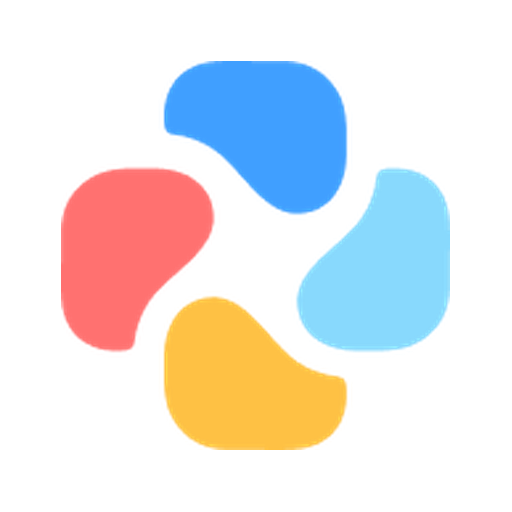
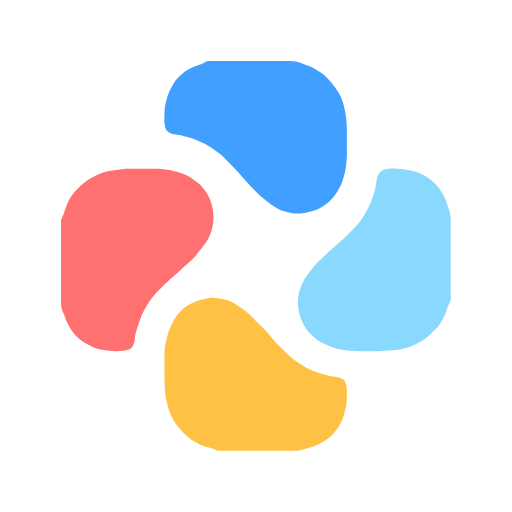
Use exact brand mark in hero illustration
Trace the four logo shapes from the brand PNG into vector paths
(assets/mark.svg) and use them in the hero, with a gentle drift-apart
animation. Regenerate favicons and app icons from the vector so they
are sharp.

Claude-Session: https://claude.ai/code/session_01AdUAFWiXucpwQGPFqsMZWu

diff --git a/index.html b/index.html
@@ -83,11 +83,11 @@
         </div>
 
         <div class="hero__art" aria-hidden="true">
-          <svg viewBox="0 0 400 400" class="blobs">
-            <g class="blob blob--1"><path fill="#409FFF" d="M150 60c20-38 90-42 112-4 20 34-2 70-26 92-24 22-58 30-82 8-22-20-20-62-4-96z"/></g>
-            <g class="blob blob--2"><path fill="#88D9FD" d="M300 160c38 4 62 50 40 88-18 32-64 50-92 30-26-18-28-56-14-84 14-26 34-37 66-34z"/></g>
-            <g class="blob blob--3"><path fill="#FEC144" d="M230 270c30 14 40 62 14 90-24 26-80 30-106 4-22-22-14-60 10-80 24-20 54-28 82-14z"/></g>
-            <g class="blob blob--4"><path fill="#FF7170" d="M62 140c30-18 76-6 90 26 14 32-2 72-34 88-32 16-76 4-86-30-10-32 0-66 30-84z"/></g>
+          <svg viewBox="-6 -6 159 159" class="blobs">
+            <path class="blob blob--1" fill="#409FFF" d="M55.50 0.00C54.56 0.19 53.86 0.79 53.00 1.12C52.14 1.46 51.20 1.68 50.34 2.04C49.47 2.40 48.63 2.81 47.82 3.31C47.01 3.80 46.22 4.38 45.48 5.02C44.75 5.65 43.99 6.36 43.39 7.11C42.78 7.87 42.32 8.70 41.85 9.52C41.39 10.34 40.94 11.17 40.59 12.04C40.24 12.91 39.99 13.82 39.75 14.73C39.51 15.65 39.25 16.55 39.12 17.52C39.00 18.48 39.02 19.50 39.00 20.51C38.98 21.51 38.89 22.58 39.03 23.53C39.18 24.49 39.34 25.54 39.88 26.23C40.41 26.91 41.37 27.33 42.25 27.62C43.13 27.92 44.20 27.82 45.13 28.01C46.07 28.20 46.96 28.48 47.87 28.75C48.77 29.02 49.67 29.29 50.55 29.62C51.42 29.96 52.27 30.35 53.12 30.75C53.97 31.15 54.82 31.53 55.64 32.01C56.45 32.50 57.23 33.08 58.01 33.63C58.79 34.19 59.60 34.70 60.34 35.34C61.09 35.99 61.78 36.78 62.49 37.49C63.21 38.21 63.94 38.92 64.64 39.64C65.35 40.37 66.03 41.10 66.71 41.83C67.38 42.57 68.02 43.31 68.68 44.06C69.34 44.80 69.98 45.54 70.66 46.28C71.33 47.02 72.02 47.74 72.72 48.47C73.42 49.19 74.13 49.95 74.87 50.62C75.60 51.29 76.37 51.90 77.13 52.50C77.89 53.11 78.66 53.71 79.45 54.25C80.24 54.79 81.03 55.33 81.87 55.74C82.71 56.16 83.59 56.48 84.49 56.75C85.40 57.02 86.31 57.25 87.28 57.38C88.24 57.50 89.29 57.56 90.27 57.50C91.24 57.44 92.18 57.22 93.11 57.02C94.04 56.81 94.97 56.61 95.84 56.28C96.72 55.95 97.55 55.50 98.36 55.01C99.17 54.53 99.99 54.01 100.72 53.38C101.46 52.74 102.19 51.97 102.79 51.21C103.40 50.45 103.89 49.63 104.38 48.82C104.86 48.00 105.31 47.18 105.68 46.32C106.05 45.46 106.33 44.56 106.59 43.66C106.85 42.75 107.07 41.83 107.24 40.88C107.41 39.94 107.54 38.98 107.62 38.00C107.71 37.02 107.73 36.01 107.75 35.01C107.77 34.00 107.75 32.98 107.75 31.97C107.75 30.95 107.75 29.94 107.75 28.93C107.75 27.91 107.77 26.89 107.75 25.88C107.73 24.88 107.71 23.87 107.62 22.90C107.54 21.92 107.40 20.96 107.25 20.01C107.10 19.06 106.93 18.12 106.70 17.20C106.47 16.28 106.22 15.37 105.87 14.50C105.53 13.63 105.09 12.79 104.62 11.97C104.16 11.15 103.65 10.35 103.07 9.57C102.50 8.80 101.86 8.05 101.19 7.31C100.51 6.58 99.79 5.79 99.04 5.16C98.28 4.53 97.47 4.04 96.67 3.54C95.86 3.05 95.04 2.58 94.19 2.19C93.34 1.79 92.44 1.50 91.56 1.18C90.68 0.87 89.82 0.47 88.90 0.27C87.98 0.07 87.02 0.05 86.04 0.00C85.06 -0.05 84.01 0.00 83.00 0.00C81.98 0.00 80.97 0.00 79.96 0.00C78.94 0.00 77.93 0.00 76.92 0.00C75.90 0.00 74.89 0.00 73.87 0.00C72.86 0.00 71.85 0.00 70.83 0.00C69.82 0.00 68.80 0.00 67.79 0.00C66.78 0.00 65.76 0.00 64.75 0.00C63.74 0.00 62.72 0.00 61.71 0.00C60.69 0.00 59.70 0.00 58.67 0.00C57.63 0.00 56.44 -0.19 55.50 0.00Z"/>
+            <path class="blob blob--2" fill="#88D9FD" d="M123.50 40.62C122.53 40.75 121.51 40.86 120.81 41.38C120.10 41.89 119.59 42.85 119.25 43.70C118.91 44.56 118.94 45.58 118.75 46.50C118.56 47.42 118.38 48.35 118.12 49.24C117.87 50.14 117.56 51.01 117.25 51.89C116.94 52.76 116.64 53.63 116.25 54.48C115.86 55.32 115.40 56.13 114.94 56.94C114.48 57.75 114.03 58.56 113.50 59.35C112.97 60.13 112.37 60.89 111.75 61.62C111.13 62.36 110.43 63.05 109.77 63.73C109.10 64.42 108.43 65.09 107.75 65.75C107.06 66.42 106.35 67.08 105.64 67.74C104.92 68.39 104.17 69.04 103.44 69.69C102.71 70.34 101.97 70.97 101.24 71.63C100.51 72.30 99.80 72.99 99.08 73.67C98.36 74.35 97.60 75.00 96.92 75.71C96.23 76.41 95.59 77.16 94.97 77.90C94.35 78.65 93.76 79.41 93.20 80.17C92.64 80.94 92.06 81.71 91.61 82.52C91.15 83.33 90.78 84.18 90.45 85.05C90.12 85.91 89.83 86.79 89.62 87.71C89.42 88.62 89.27 89.60 89.25 90.56C89.23 91.51 89.35 92.52 89.50 93.46C89.65 94.40 89.85 95.31 90.12 96.20C90.40 97.09 90.75 97.95 91.15 98.78C91.56 99.61 92.01 100.43 92.57 101.20C93.13 101.97 93.82 102.72 94.52 103.39C95.22 104.07 95.98 104.71 96.75 105.25C97.53 105.79 98.36 106.21 99.19 106.62C100.02 107.04 100.86 107.43 101.73 107.75C102.60 108.07 103.49 108.32 104.41 108.53C105.32 108.74 106.27 108.88 107.22 109.00C108.17 109.12 109.14 109.19 110.12 109.25C111.09 109.31 112.08 109.35 113.07 109.38C114.06 109.40 115.07 109.38 116.08 109.38C117.08 109.38 118.09 109.40 119.08 109.38C120.07 109.35 121.06 109.31 122.03 109.25C123.01 109.19 123.97 109.08 124.93 109.00C125.90 108.92 126.90 108.92 127.83 108.75C128.77 108.58 129.65 108.29 130.53 108.00C131.41 107.71 132.27 107.38 133.12 107.00C133.97 106.63 134.80 106.24 135.61 105.76C136.42 105.29 137.21 104.77 137.95 104.17C138.70 103.57 139.37 102.86 140.06 102.19C140.76 101.51 141.53 100.85 142.12 100.11C142.72 99.37 143.18 98.54 143.64 97.73C144.10 96.92 144.52 96.09 144.88 95.24C145.23 94.38 145.44 93.46 145.77 92.61C146.10 91.75 146.69 91.05 146.88 90.13C147.06 89.22 146.88 88.13 146.88 87.13C146.88 86.13 146.88 85.13 146.88 84.12C146.88 83.12 146.88 82.12 146.88 81.12C146.88 80.12 146.88 79.12 146.88 78.12C146.88 77.11 146.88 76.11 146.88 75.11C146.88 74.11 146.88 73.11 146.88 72.11C146.88 71.11 146.88 70.10 146.88 69.10C146.88 68.10 146.88 67.10 146.88 66.10C146.88 65.10 146.88 64.10 146.88 63.09C146.88 62.09 146.92 61.06 146.88 60.09C146.83 59.12 146.82 58.17 146.63 57.26C146.45 56.35 146.05 55.50 145.75 54.62C145.45 53.74 145.23 52.83 144.86 51.98C144.49 51.14 144.02 50.33 143.53 49.53C143.04 48.73 142.56 47.92 141.94 47.19C141.31 46.46 140.52 45.77 139.78 45.15C139.03 44.53 138.27 43.95 137.47 43.47C136.67 42.99 135.83 42.60 134.97 42.25C134.11 41.90 133.23 41.60 132.33 41.38C131.42 41.15 130.48 41.00 129.53 40.88C128.58 40.75 127.63 40.67 126.63 40.62C125.62 40.58 124.47 40.50 123.50 40.62Z"/>
+            <path class="blob blob--3" fill="#FEC144" d="M56.75 89.25C55.78 89.28 54.85 89.49 53.93 89.69C53.02 89.90 52.13 90.17 51.26 90.49C50.40 90.81 49.55 91.18 48.73 91.62C47.92 92.07 47.10 92.54 46.36 93.14C45.62 93.74 44.92 94.48 44.29 95.21C43.67 95.94 43.10 96.72 42.61 97.51C42.13 98.31 41.75 99.16 41.37 100.00C41.00 100.85 40.65 101.70 40.38 102.59C40.10 103.47 39.90 104.39 39.69 105.31C39.49 106.22 39.24 107.12 39.12 108.07C39.01 109.02 39.02 110.03 39.00 111.02C38.98 112.01 39.00 113.02 39.00 114.02C39.00 115.02 39.00 116.02 39.00 117.02C39.00 118.02 38.98 119.03 39.00 120.02C39.02 121.01 39.06 121.99 39.12 122.97C39.19 123.94 39.25 124.92 39.38 125.86C39.50 126.81 39.67 127.74 39.88 128.66C40.08 129.57 40.31 130.48 40.60 131.35C40.90 132.23 41.27 133.08 41.67 133.92C42.06 134.75 42.48 135.58 43.00 136.36C43.52 137.15 44.13 137.90 44.76 138.63C45.39 139.37 46.08 140.12 46.79 140.79C47.50 141.46 48.25 142.10 49.02 142.65C49.80 143.19 50.62 143.64 51.44 144.06C52.26 144.49 53.10 144.89 53.96 145.21C54.83 145.54 55.76 145.72 56.64 146.00C57.51 146.28 58.27 146.73 59.20 146.88C60.13 147.02 61.20 146.88 62.20 146.88C63.20 146.88 64.20 146.88 65.20 146.88C66.20 146.88 67.20 146.88 68.20 146.88C69.20 146.88 70.20 146.88 71.20 146.88C72.20 146.88 73.20 146.88 74.20 146.88C75.20 146.88 76.20 146.88 77.20 146.88C78.20 146.88 79.20 146.88 80.20 146.88C81.20 146.88 82.20 146.88 83.20 146.88C84.20 146.88 85.20 146.88 86.20 146.88C87.20 146.88 88.26 146.98 89.20 146.88C90.15 146.77 90.98 146.49 91.87 146.25C92.76 146.01 93.66 145.75 94.54 145.46C95.42 145.17 96.31 144.90 97.15 144.50C97.98 144.10 98.77 143.60 99.55 143.07C100.33 142.54 101.13 141.95 101.82 141.30C102.52 140.65 103.14 139.91 103.71 139.16C104.29 138.41 104.81 137.61 105.25 136.80C105.69 135.98 106.05 135.13 106.37 134.26C106.68 133.39 106.92 132.49 107.12 131.57C107.33 130.66 107.52 129.74 107.62 128.78C107.73 127.82 107.75 126.81 107.75 125.83C107.75 124.85 107.81 123.81 107.62 122.88C107.44 121.96 107.24 120.91 106.66 120.28C106.08 119.66 105.03 119.39 104.13 119.13C103.24 118.88 102.21 118.94 101.29 118.75C100.37 118.56 99.49 118.27 98.60 118.00C97.72 117.73 96.85 117.41 95.98 117.10C95.10 116.79 94.21 116.52 93.38 116.12C92.54 115.73 91.76 115.20 90.96 114.71C90.16 114.23 89.35 113.77 88.59 113.21C87.82 112.65 87.09 112.00 86.35 111.35C85.62 110.71 84.91 110.01 84.20 109.32C83.48 108.63 82.77 107.91 82.08 107.20C81.38 106.49 80.69 105.77 80.04 105.04C79.39 104.31 78.83 103.54 78.19 102.81C77.54 102.08 76.85 101.37 76.15 100.65C75.46 99.94 74.74 99.24 74.03 98.53C73.32 97.82 72.62 97.10 71.91 96.41C71.20 95.72 70.50 95.00 69.75 94.38C69.01 93.76 68.23 93.23 67.45 92.70C66.67 92.17 65.89 91.62 65.07 91.19C64.25 90.77 63.39 90.42 62.51 90.13C61.63 89.85 60.73 89.65 59.77 89.50C58.81 89.35 57.72 89.22 56.75 89.25Z"/>
+            <path class="blob blob--4" fill="#FF7170" d="M24.38 40.62C23.38 40.68 22.47 40.86 21.52 40.98C20.57 41.11 19.61 41.20 18.68 41.38C17.75 41.55 16.84 41.77 15.95 42.05C15.07 42.32 14.19 42.64 13.35 43.02C12.51 43.41 11.69 43.85 10.90 44.35C10.10 44.85 9.32 45.39 8.58 46.00C7.84 46.61 7.16 47.31 6.48 48.00C5.80 48.69 5.08 49.38 4.50 50.13C3.92 50.88 3.43 51.69 2.99 52.51C2.56 53.33 2.21 54.18 1.88 55.05C1.54 55.91 1.31 56.83 1.00 57.69C0.69 58.55 0.17 59.28 0.00 60.20C-0.17 61.12 0.00 62.21 0.00 63.21C0.00 64.21 0.00 65.21 0.00 66.21C0.00 67.21 0.00 68.21 0.00 69.22C0.00 70.22 0.00 71.22 0.00 72.22C0.00 73.22 0.00 74.22 0.00 75.22C0.00 76.22 0.00 77.23 0.00 78.23C0.00 79.23 0.00 80.23 0.00 81.23C0.00 82.23 0.00 83.23 0.00 84.24C0.00 85.24 0.00 86.24 0.00 87.24C0.00 88.24 -0.04 89.27 0.00 90.24C0.04 91.22 0.01 92.18 0.21 93.09C0.41 93.99 0.86 94.82 1.19 95.69C1.51 96.55 1.78 97.44 2.16 98.29C2.55 99.13 2.99 99.95 3.49 100.74C3.99 101.53 4.54 102.33 5.17 103.05C5.80 103.76 6.54 104.43 7.28 105.03C8.02 105.63 8.82 106.15 9.62 106.62C10.43 107.10 11.26 107.51 12.11 107.86C12.97 108.22 13.84 108.54 14.75 108.75C15.67 108.96 16.64 109.02 17.60 109.12C18.56 109.23 19.53 109.35 20.50 109.38C21.48 109.40 22.51 109.40 23.45 109.25C24.39 109.10 25.46 109.02 26.15 108.50C26.84 107.98 27.28 107.02 27.59 106.16C27.90 105.29 27.81 104.24 28.00 103.32C28.19 102.40 28.48 101.52 28.75 100.63C29.02 99.74 29.31 98.86 29.62 97.99C29.94 97.11 30.24 96.24 30.62 95.40C31.01 94.56 31.48 93.75 31.94 92.94C32.40 92.13 32.84 91.31 33.38 90.53C33.91 89.75 34.49 88.99 35.13 88.25C35.76 87.51 36.48 86.79 37.16 86.09C37.84 85.39 38.48 84.74 39.18 84.07C39.88 83.39 40.61 82.68 41.34 82.03C42.07 81.38 42.84 80.82 43.58 80.17C44.31 79.52 45.01 78.80 45.74 78.14C46.46 77.47 47.21 76.85 47.93 76.19C48.66 75.53 49.42 74.87 50.09 74.16C50.76 73.44 51.35 72.67 51.95 71.92C52.56 71.17 53.16 70.42 53.72 69.65C54.28 68.88 54.86 68.12 55.32 67.31C55.78 66.50 56.16 65.65 56.47 64.78C56.78 63.91 57.01 63.00 57.18 62.07C57.35 61.14 57.49 60.16 57.50 59.20C57.51 58.24 57.39 57.24 57.25 56.30C57.11 55.36 56.93 54.43 56.66 53.54C56.39 52.65 56.05 51.79 55.62 50.96C55.20 50.14 54.67 49.36 54.09 48.59C53.52 47.83 52.85 47.06 52.15 46.40C51.44 45.74 50.65 45.17 49.88 44.63C49.10 44.08 48.33 43.54 47.50 43.12C46.67 42.71 45.78 42.44 44.90 42.15C44.02 41.86 43.13 41.58 42.21 41.38C41.30 41.17 40.35 41.03 39.40 40.90C38.45 40.78 37.49 40.68 36.51 40.64C35.53 40.59 34.51 40.63 33.51 40.62C32.51 40.62 31.51 40.62 30.51 40.62C29.51 40.62 28.53 40.62 27.50 40.62C26.48 40.62 25.37 40.57 24.38 40.62Z"/>
           </svg>
           <div class="chip chip--a"><span class="avatar" style="--c:#409FFF">A</span><span class="avatar" style="--c:#FF7170">R</span><span class="avatar" style="--c:#FEC144">M</span> Study circle · 6 learners</div>
           <div class="chip chip--b"><span class="spark">✦</span> AI tutor ready</div>

diff --git a/styles.css b/styles.css
@@ -96,13 +96,15 @@ h3 { font-size: 1.3rem; font-weight: 600; }
 
 .hero__art { position: relative; aspect-ratio: 1; max-width: 460px; width: 100%; justify-self: center; }
 .blobs { width: 100%; height: 100%; overflow: visible; }
-.blob { transform-box: fill-box; transform-origin: center; animation: float 7s ease-in-out infinite; }
-.blob--2 { animation-delay: -1.75s; }
-.blob--3 { animation-delay: -3.5s; }
-.blob--4 { animation-delay: -5.25s; }
-@keyframes float {
-  0%, 100% { transform: translate(0, 0) rotate(0deg); }
-  50% { transform: translate(0, -10px) rotate(4deg); }
+.blob { animation: drift 6s ease-in-out infinite; }
+.blob--1 { --dx: 0px;  --dy: -4px; }
+.blob--2 { --dx: 4px;  --dy: 0px; }
+.blob--3 { --dx: 0px;  --dy: 4px; }
+.blob--4 { --dx: -4px; --dy: 0px; }
+/* the four pieces gently drift apart and come back together */
+@keyframes drift {
+  0%, 100% { transform: translate(0, 0); }
+  50% { transform: translate(var(--dx), var(--dy)); }
 }
 
 .chip {
